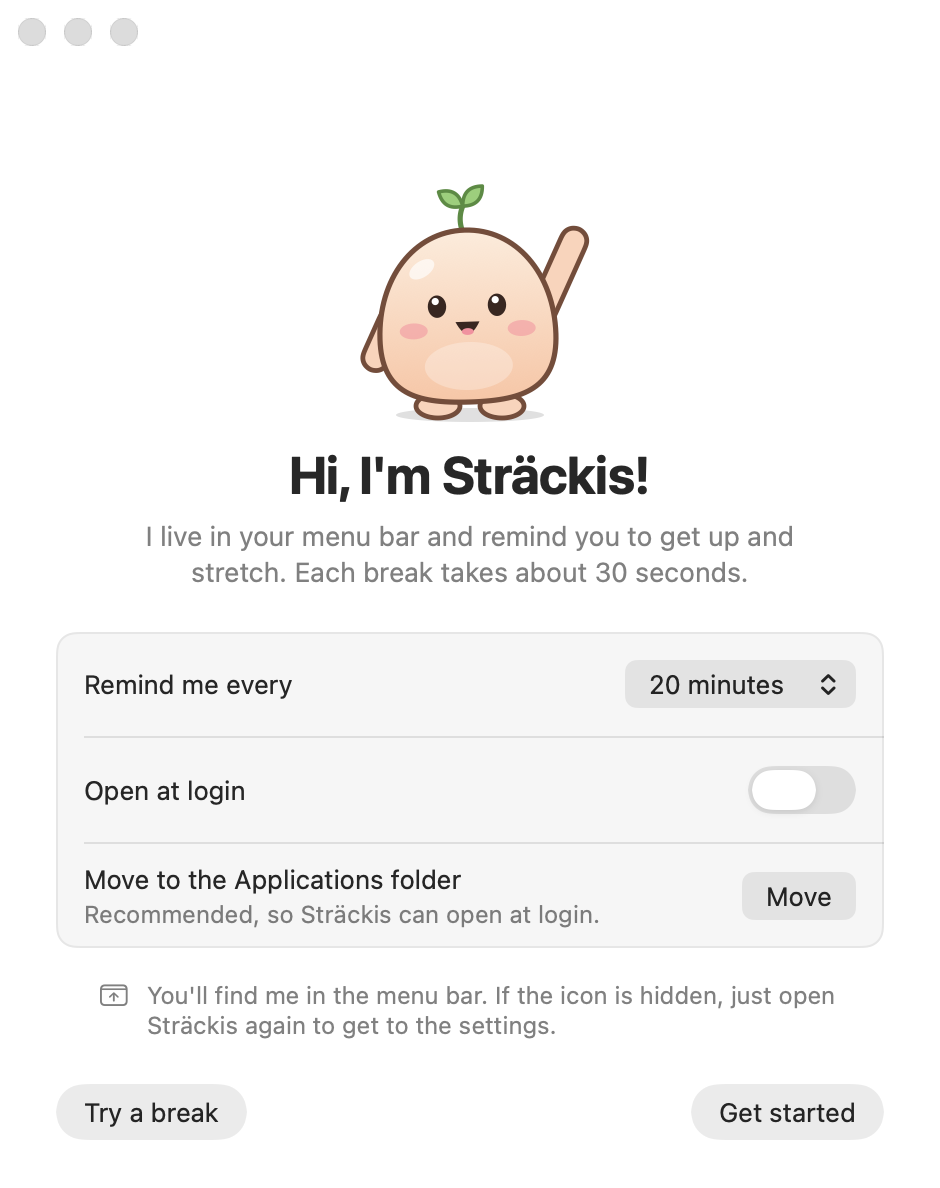
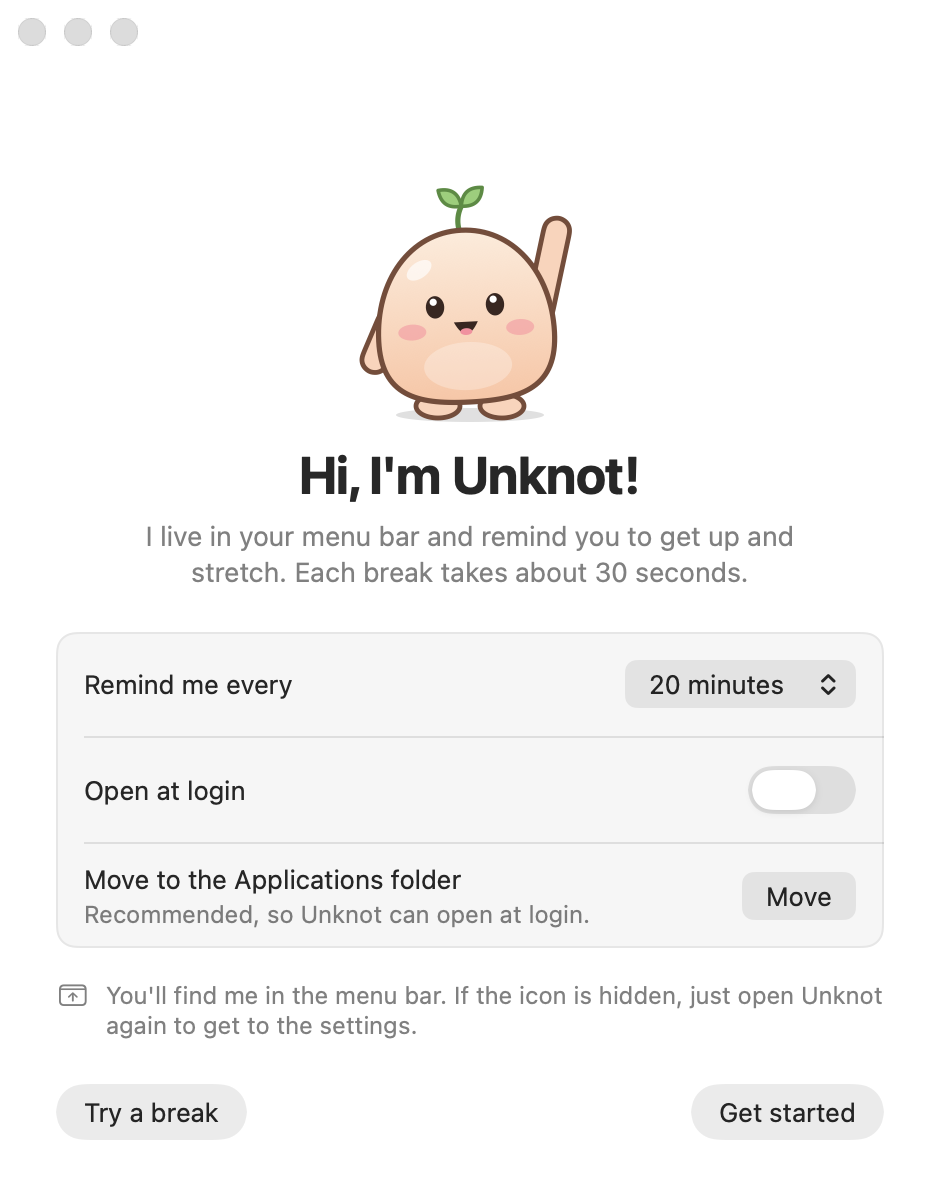
Rename Sträckis to Unknot (1.2.0)
A name that works in every language and says what the app does.
- New app, executable, bundle id, zip and repository name
- Settings and statistics move over from io.github.emsurenar.strackis;
  the old Sträckis app is quit and moved to the Trash
- install.sh waits for the running app to quit before opening the new
  one (fixes error -600 when updating) and replaces the old app

diff --git a/Sources/App.swift b/Sources/App.swift
@@ -1,13 +1,14 @@
-// Sträckis – a tiny menu bar friend that reminds you to stretch.
+// Unknot – a tiny menu bar friend that reminds you to stretch.
 
 import AppKit
 import Combine
 
 @main
-struct StrackisMain {
+struct UnknotMain {
     @MainActor static func main() {
         let app = NSApplication.shared
         if Snapshot.run(CommandLine.arguments) { return }
+        LegacyMigration.run()  // before anything reads the settings
         let delegate = AppDelegate()
         app.delegate = delegate
         app.setActivationPolicy(.accessory)
@@ -16,7 +17,7 @@ struct StrackisMain {
 }
 
 /// Posted by a second copy of the app before it quits, so the running one can show its settings.
-private let showSettingsNotification = Notification.Name("io.github.emsurenar.strackis.showSettings")
+private let showSettingsNotification = Notification.Name("io.github.emsurenar.unknot.showSettings")
 
 @MainActor
 final class AppDelegate: NSObject, NSApplicationDelegate, NSMenuDelegate {
@@ -36,7 +37,7 @@ final class AppDelegate: NSObject, NSApplicationDelegate, NSMenuDelegate {
         statusItem = NSStatusBar.system.statusItem(withLength: NSStatusItem.variableLength)
         statusItem.button?.imagePosition = .imageLeading
         statusItem.button?.font = .monospacedDigitSystemFont(ofSize: NSFont.systemFontSize, weight: .regular)
-        statusItem.button?.setAccessibilityTitle("Sträckis")
+        statusItem.button?.setAccessibilityTitle("Unknot")
         let menu = NSMenu()
         menu.delegate = self
         statusItem.menu = menu
@@ -96,7 +97,7 @@ final class AppDelegate: NSObject, NSApplicationDelegate, NSMenuDelegate {
             if prefs.showCountdownInMenuBar { title = " " + L("%ld min", minutes) }
         }
         if icon != shownIcon {
-            let image = NSImage(systemSymbolName: icon, accessibilityDescription: "Sträckis")
+            let image = NSImage(systemSymbolName: icon, accessibilityDescription: "Unknot")
             image?.isTemplate = true
             button.image = image
             shownIcon = icon
@@ -136,7 +137,7 @@ final class AppDelegate: NSObject, NSApplicationDelegate, NSMenuDelegate {
         }
         menu.addItem(.separator())
         addItem(to: menu, L("Settings…"), #selector(showSettings), key: ",", symbol: "gearshape")
-        addItem(to: menu, L("Quit Sträckis"), #selector(quit), key: "q")
+        addItem(to: menu, L("Quit Unknot"), #selector(quit), key: "q")
     }
 
     private var statusText: String {

diff --git a/Sources/WelcomeView.swift b/Sources/WelcomeView.swift
@@ -16,7 +16,7 @@ struct WelcomeView: View {
                 .frame(width: 150, height: 150)
                 .padding(.top, 34)
 
-            Text(L("Hi, I'm Sträckis!"))
+            Text(L("Hi, I'm Unknot!"))
                 .font(.system(size: 26, weight: .bold))
                 .tracking(-0.4)
                 .padding(.top, 6)
@@ -53,7 +53,7 @@ struct WelcomeView: View {
                     row {
                         VStack(alignment: .leading, spacing: 2) {
                             Text(L("Move to the Applications folder"))
-                            Text(moveError ?? L("Recommended, so Sträckis can open at login."))
+                            Text(moveError ?? L("Recommended, so Unknot can open at login."))
                                 .font(.callout)
                                 .foregroundStyle(moveError == nil ? Color.secondary : Color.red)
                                 .fixedSize(horizontal: false, vertical: true)
@@ -75,13 +75,13 @@ struct WelcomeView: View {
             .padding(.top, 22)
 
             if login.needsApproval {
-                Button(L("Approve Sträckis in System Settings to finish.")) { LoginItem.openSystemSettings() }
+                Button(L("Approve Unknot in System Settings to finish.")) { LoginItem.openSystemSettings() }
                     .buttonStyle(.link)
                     .font(.callout)
                     .padding(.top, 8)
             }
 
-            Label(L("You'll find me in the menu bar. If the icon is hidden, just open Sträckis again to get to the settings."), systemImage: "menubar.arrow.up.rectangle")
+            Label(L("You'll find me in the menu bar. If the icon is hidden, just open Unknot again to get to the settings."), systemImage: "menubar.arrow.up.rectangle")
                 .font(.callout)
                 .foregroundStyle(.secondary)
                 .padding(.horizontal, 28)

diff --git a/Sources/SettingsView.swift b/Sources/SettingsView.swift
@@ -115,7 +115,7 @@ struct ExercisesSettingsView: View {
                                 isLocked: enabledCount == 1 && prefs.isEnabled(exercise))
                 }
             } header: {
-                Text(L("Choose which exercises Sträckis can suggest. Hover over one to see the movement."))
+                Text(L("Choose which exercises Unknot can suggest. Hover over one to see the movement."))
                     .font(.callout)
                     .foregroundStyle(.secondary)
                     .textCase(nil)
@@ -198,7 +198,7 @@ struct ScheduleSettingsView: View {
             } header: {
                 Text(L("Smart pauses"))
             } footer: {
-                Text(L("Full screen usually means a presentation, a video call or a movie. Sträckis waits until you're done."))
+                Text(L("Full screen usually means a presentation, a video call or a movie. Unknot waits until you're done."))
                     .foregroundStyle(.secondary)
                     .font(.callout)
             }
@@ -318,7 +318,7 @@ struct AboutSettingsView: View {
             Image(nsImage: NSApp.applicationIconImage)
                 .resizable()
                 .frame(width: 112, height: 112)
-            Text(verbatim: "Sträckis")
+            Text(verbatim: "Unknot")
                 .font(.system(size: 26, weight: .bold))
                 .tracking(-0.4)
                 .padding(.top, 6)
@@ -407,7 +407,7 @@ struct LoginItemRows: View {
             LabeledContent {
                 Button(L("Open System Settings")) { LoginItem.openSystemSettings() }
             } label: {
-                Text(L("Approve Sträckis in System Settings to finish."))
+                Text(L("Approve Unknot in System Settings to finish."))
                     .foregroundStyle(.secondary)
             }
         }

diff --git a/Sources/WindowManager.swift b/Sources/WindowManager.swift
@@ -35,7 +35,7 @@ final class WindowManager: NSObject, NSWindowDelegate {
             window.titleVisibility = .hidden
             window.isMovableByWindowBackground = true
             window.isReleasedWhenClosed = false
-            window.title = L("Welcome to Sträckis")
+            window.title = L("Welcome to Unknot")
             window.delegate = self
             window.setContentSize(host.view.fittingSize)
             window.center()
@@ -111,12 +111,12 @@ enum MainMenu {
         let main = NSMenu()
 
         let appMenu = NSMenu()
-        appMenu.addItem(withTitle: L("About Sträckis"), action: #selector(AppDelegate.showAbout), keyEquivalent: "")
+        appMenu.addItem(withTitle: L("About Unknot"), action: #selector(AppDelegate.showAbout), keyEquivalent: "")
         appMenu.addItem(.separator())
         appMenu.addItem(withTitle: L("Settings…"), action: #selector(AppDelegate.showSettings), keyEquivalent: ",")
         appMenu.addItem(.separator())
-        appMenu.addItem(withTitle: L("Hide Sträckis"), action: #selector(NSApplication.hide(_:)), keyEquivalent: "h")
-        appMenu.addItem(withTitle: L("Quit Sträckis"), action: #selector(NSApplication.terminate(_:)), keyEquivalent: "q")
+        appMenu.addItem(withTitle: L("Hide Unknot"), action: #selector(NSApplication.hide(_:)), keyEquivalent: "h")
+        appMenu.addItem(withTitle: L("Quit Unknot"), action: #selector(NSApplication.terminate(_:)), keyEquivalent: "q")
         main.addItem(submenu: appMenu)
 
         let editMenu = NSMenu(title: L("Edit"))

diff --git a/Sources/System.swift b/Sources/System.swift
@@ -111,3 +111,32 @@ enum Activity {
         return false
     }
 }
+
+/// The app was called Sträckis before 1.2.0. Carries settings and statistics over,
+/// and quits and removes the old app so there aren't two of them.
+enum LegacyMigration {
+    static let oldBundleIdentifier = "io.github.emsurenar.strackis"
+    private static let doneKey = "migratedFromStrackis"
+
+    @MainActor
+    static func run() {
+        let defaults = UserDefaults.standard
+        if !defaults.bool(forKey: doneKey) {
+            for (key, value) in defaults.persistentDomain(forName: oldBundleIdentifier) ?? [:]
+            where defaults.object(forKey: key) == nil {
+                defaults.set(value, forKey: key)
+            }
+            defaults.set(true, forKey: doneKey)
+        }
+
+        for app in NSRunningApplication.runningApplications(withBundleIdentifier: oldBundleIdentifier) {
+            app.terminate()
+        }
+        let folders = FileManager.default.urls(for: .applicationDirectory, in: [.localDomainMask, .userDomainMask])
+        for folder in folders {
+            let old = folder.appendingPathComponent("Str\u{00E4}ckis.app")
+            guard Bundle(url: old)?.bundleIdentifier == oldBundleIdentifier else { continue }
+            try? FileManager.default.trashItem(at: old, resultingItemURL: nil)
+        }
+    }
+}

diff --git a/Sources/Preferences.swift b/Sources/Preferences.swift
@@ -124,7 +124,7 @@ final class Preferences: ObservableObject {
 
     /// Default settings with a made-up week of breaks, for screenshots. Never touches the real settings.
     static func sample() -> Preferences {
-        let suite = "io.github.emsurenar.strackis.screenshots"
+        let suite = "io.github.emsurenar.unknot.screenshots"
         UserDefaults().removePersistentDomain(forName: suite)
         let prefs = Preferences(defaults: UserDefaults(suiteName: suite)!)
         let today = Calendar.current.startOfDay(for: Date())

diff --git a/Sources/Snapshot.swift b/Sources/Snapshot.swift
@@ -176,7 +176,7 @@ enum Snapshot {
 
         check(Set(allExercises.map(\.id)).count == allExercises.count, "Exercise ids are unique")
 
-        let stats = Preferences(defaults: UserDefaults(suiteName: "strackis.selftest.\(UUID().uuidString)")!)
+        let stats = Preferences(defaults: UserDefaults(suiteName: "unknot.selftest.\(UUID().uuidString)")!)
         stats.recordCompletedBreak(at: date(19, 10))
         stats.recordCompletedBreak(at: date(20, 10))
         stats.recordCompletedBreak(at: date(20, 14))

diff --git a/Sources/Updater.swift b/Sources/Updater.swift
@@ -5,7 +5,7 @@ import AppKit
 final class Updater: ObservableObject {
     static let shared = Updater()
 
-    static let repository = "Emsurenar/strackis"
+    static let repository = "Emsurenar/unknot"
     static let repositoryURL = URL(string: "https://github.com/\(repository)")!
     static let releasesURL = URL(string: "https://github.com/\(repository)/releases/latest")!
     static let issuesURL = URL(string: "https://github.com/\(repository)/issues")!

diff --git a/README.md b/README.md
@@ -1,15 +1,15 @@
 <p align="center">
-  <img src="docs/icon.png" width="128" height="128" alt="Sträckis app icon">
+  <img src="docs/icon.png" width="128" height="128" alt="Unknot app icon">
 </p>
 
-<h1 align="center">Sträckis</h1>
+<h1 align="center">Unknot</h1>
 
 <p align="center">
   A tiny friend in your Mac's menu bar that reminds you to get up and stretch.
 </p>
 
 <p align="center">
-  <a href="https://github.com/Emsurenar/strackis/releases/latest"><strong>Download for macOS</strong></a>
+  <a href="https://github.com/Emsurenar/unknot/releases/latest"><strong>Download for macOS</strong></a>
   &nbsp;·&nbsp; macOS 13 or later &nbsp;·&nbsp; Apple silicon and Intel &nbsp;·&nbsp; Free and open source
 </p>
 
@@ -21,14 +21,15 @@ Every 20 minutes a small glass panel slides into the corner of your screen. A li
 demonstrates a few quick exercises, a progress bar counts down, and after 30 seconds it's gone again.
 It never steals focus, so you can keep typing if you really have to.
 
-The name is a playful Swedish take on *sträcka på sig*, "to stretch".
+*Unknot* (verb): to undo the knots in your neck, your shoulders and your back. Unknot was called Sträckis
+before version 1.2.0; updating keeps your settings and statistics.
 
 ## Features
 
 - **Gentle breaks.** A non-activating panel in the corner of your screen, light and dark mode, sound optional.
 - **12 animated exercises.** Each break picks a few at random. Turn off the ones you don't like.
 - **Smart timing.** Time away from the computer counts as a break. Sleep and a locked screen restart the countdown.
-  Optional working hours, and Sträckis can wait while an app is in full screen (presentations, calls, movies).
+  Optional working hours, and Unknot can wait while an app is in full screen (presentations, calls, movies).
 - **A quiet menu bar icon.** See when the next break is, stretch now, or pause for 30 minutes, an hour, two hours
   or the rest of the day.
 - **See your progress.** Breaks today, this week, days in a row and a chart of the last seven days.
@@ -45,18 +46,18 @@ The name is a playful Swedish take on *sträcka på sig*, "to stretch".
 **One line in Terminal** (downloads the latest release into Applications and opens it):
 
 ```bash
-curl -fsSL https://raw.githubusercontent.com/Emsurenar/strackis/main/install.sh | bash
+curl -fsSL https://raw.githubusercontent.com/Emsurenar/unknot/main/install.sh | bash
 ```
 
 **Or download it yourself:**
 
-1. Download `Strackis.zip` from the [latest release](https://github.com/Emsurenar/strackis/releases/latest) and unzip it.
-2. Drag **Sträckis** into your **Applications** folder and open it.
-3. The first time, macOS says it can't verify the developer, because Sträckis isn't signed with a paid
+1. Download `Unknot.zip` from the [latest release](https://github.com/Emsurenar/unknot/releases/latest) and unzip it.
+2. Drag **Unknot** into your **Applications** folder and open it.
+3. The first time, macOS says it can't verify the developer, because Unknot isn't signed with a paid
    Apple Developer ID. Click **Done**, open **System Settings → Privacy & Security**, scroll down and click
    **Open Anyway**. You only need to do this once.
 
-A welcome window shows up on first launch. From then on Sträckis lives in the menu bar.
+A welcome window shows up on first launch. From then on Unknot lives in the menu bar.
 
 <p align="center">
   <img src="docs/welcome.png" width="320" alt="The welcome window on first launch">
@@ -80,12 +81,12 @@ Click the menu bar icon and choose **Settings…**, or open the app again from F
 - **Schedule:** working hours and smart pauses.
 - **Activity:** your breaks today, this week, days in a row and all time, with a chart of the last seven days.
 
-Can't see the menu bar icon, for example because it's hidden behind the camera notch? Open Sträckis again from
+Can't see the menu bar icon, for example because it's hidden behind the camera notch? Open Unknot again from
 Finder or Spotlight and the settings appear.
 
 ## Privacy
 
-Sträckis doesn't collect anything. Settings and statistics stay on your Mac. The only network request is an
+Unknot doesn't collect anything. Settings and statistics stay on your Mac. The only network request is an
 optional check of GitHub's releases API, at most once a day, to tell you about new versions. You can turn it
 off under **Settings → General**. Nothing is ever downloaded or installed automatically.
 
@@ -94,14 +95,14 @@ off under **Settings → General**. Nothing is ever downloaded or installed auto
 You need Xcode or the Command Line Tools (`xcode-select --install`). There are no dependencies.
 
 ```bash
-git clone https://github.com/Emsurenar/strackis.git
-cd strackis
+git clone https://github.com/Emsurenar/unknot.git
+cd unknot
 ./build.sh
-open "build/Sträckis.app"
+open "build/Unknot.app"
 ```
 
-`./build.sh --release` builds a universal app and `dist/Strackis.zip`. The build also checks the
-translations and runs a small self-test (`Sträckis --selftest`).
+`./build.sh --release` builds a universal app and `dist/Unknot.zip`. The build also checks the
+translations and runs a small self-test (`Unknot --selftest`).
 
 | Path | What's inside |
 | --- | --- |
@@ -130,22 +131,22 @@ Bump `CFBundleShortVersionString` in `Info.plist`, add an entry to `CHANGELOG.md
 git tag v1.0.1 && git push origin v1.0.1
 ```
 
-GitHub Actions builds the universal app and attaches `Strackis.zip` to the release.
+GitHub Actions builds the universal app and attaches `Unknot.zip` to the release.
 
 ## Uninstall
 
-Choose **Quit Sträckis** in the menu, turn off **Open at login** first if you enabled it, and drag the app to
+Choose **Quit Unknot** in the menu, turn off **Open at login** first if you enabled it, and drag the app to
 the Trash. To remove its settings as well:
 
 ```bash
-defaults delete io.github.emsurenar.strackis
+defaults delete io.github.emsurenar.unknot
 ```
 
 ## På svenska
 
-Sträckis är en liten kompis i menyraden som påminner dig om att sträcka på dig. Var 20:e minut glider en ruta
+Unknot är en liten kompis i menyraden som påminner dig om att sträcka på dig. Var 20:e minut glider en ruta
 in i hörnet och figuren visar några snabba övningar. Appen följer din Macs språk och finns på svenska och
-engelska. Ladda ned den under [Releases](https://github.com/Emsurenar/strackis/releases/latest).
+engelska. Ladda ned den under [Releases](https://github.com/Emsurenar/unknot/releases/latest).
 
 ## License
 

diff --git a/CHANGELOG.md b/CHANGELOG.md
@@ -1,5 +1,12 @@
 # Changelog
 
+## 1.2.0 – 2026-10-21
+
+- **Sträckis is now called Unknot.** A name that works in every language and says what the app is for.
+  Your settings and statistics come along, and the old Sträckis app is quit and moved to the Trash.
+- The installer waits for the running app to quit before opening the new version, so updating no longer
+  fails with error -600.
+
 ## 1.1.0 – 2026-10-21
 
 - New **Activity** tab: today, this week, days in a row and all time, plus a chart of the last seven days.
